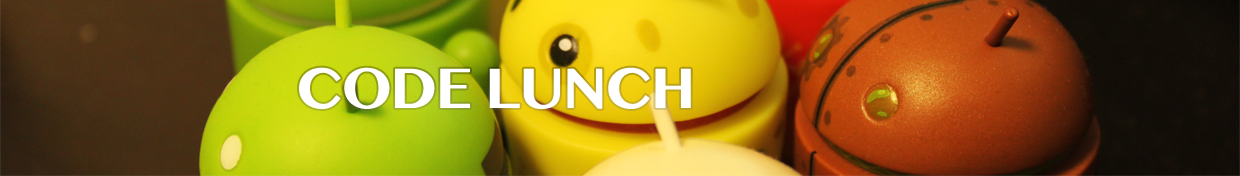
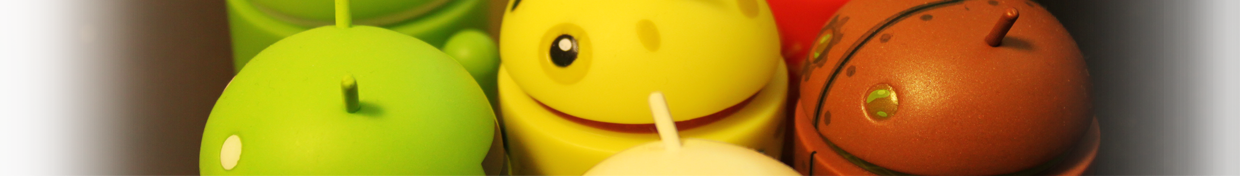
フッターを固定表示に修正 L HTML構造を修正 L CSSを修正
ヘッダータイトル画像を追加

Changed region(s): [[0.0, 0.0, 0.1532, 1.0], [0.8581, 0.0, 1.0, 1.0], [0.2145, 0.3693, 0.5823, 0.625]]

diff --git a/css/style.css b/css/style.css
@@ -1,8 +1,23 @@
-body{
+html,body{
   padding: 0;
   margin: 0;
   background-color: #f9f9f9;
+  height: 100%;
+  width: 100%;
 }
+
+/*フッター固定表示のために設定*/
+div#cl-whole-contents{
+    position: relative;
+    min-height: 100%;
+}
+
+.cl-whole-footer{
+    width: 100%;
+    position: absolute;
+    bottom: 0px;
+}
+/*ここまで*/
 
 p{
   margin: 0;
@@ -94,6 +109,14 @@ a {
   background: #000 url("../image/key-visual.png") no-repeat;
 }
 
+/* add title design */
+.cl-doc-header img{
+    height: 48px;
+    width: 400px;
+    background: url("../image/sight-title.png") no-repeat;
+    margin: 64px auto;
+}
+
 @media (max-width: 640px) {
   .cl-doc-header {
     zoom: 0.5;
@@ -106,7 +129,8 @@ a {
   margin: 16px auto 48px;
   padding-bottom: 48px;
   color: #2d2d2d;
-  border: 1px solid #ccc;
+  /*height: 536px;*/
+  border: 1px solid #cccccc;
 }
 
 .cl-doc-body section{
@@ -210,6 +234,11 @@ a {
 
 .cl-doc-vol-body .cl-related-words a:hover{
   color: #cccccc;
+}
+/*フッターにかからないように設定*/
+.cl-doc-body-outer{
+    padding-bottom: 200px;
+
 }
 
 /* for footer */

diff --git a/index.html b/index.html
@@ -32,8 +32,13 @@
     </div>
   </div>
 </header>
+<div id="cl-whole-contents">
 
-<div class="cl-doc-header"></div>
+<div class="cl-doc-header">
+  <div class="cl-container">
+    <img src="../image/sight-title.png" />
+  </div>
+</div>
 
 <div class="cl-doc-body-outer">
   <div id="cl-doc-body" class="cl-container cl-doc-body"><section>
@@ -90,6 +95,8 @@
 </section></div>
 </div>
 
+<div class="cl-whole-footer">
+
 <footer class="cl-doc-footer">
   <div class="cl-container">
     <span class="cl-icon-logo"></span>
@@ -124,6 +131,10 @@
     </div>
   </div>
 </footer>
+
+</div>
+
+</div>
 
 <script src="js/analytics.js"></script>
 </body>

diff --git a/template/index.html b/template/index.html
@@ -32,8 +32,13 @@
     </div>
   </div>
 </header>
+<div id="cl-whole-contents">
 
-<div class="cl-doc-header"></div>
+<div class="cl-doc-header">
+  <div class="cl-container">
+    <img src="../image/sight-title.png" >
+  </div>
+</div>
 
 <div class="cl-doc-body-outer">
   <div id="cl-doc-body" class="cl-container cl-doc-body">
@@ -56,6 +61,8 @@
     </section>
   </div>
 </div>
+
+<div class="cl-whole-footer">
 
 <footer class="cl-doc-footer">
   <div class="cl-container">
@@ -91,6 +98,10 @@
     </div>
   </div>
 </footer>
+
+</div>
+
+</div>
 
 <script src="js/analytics.js"></script>
 </body>
